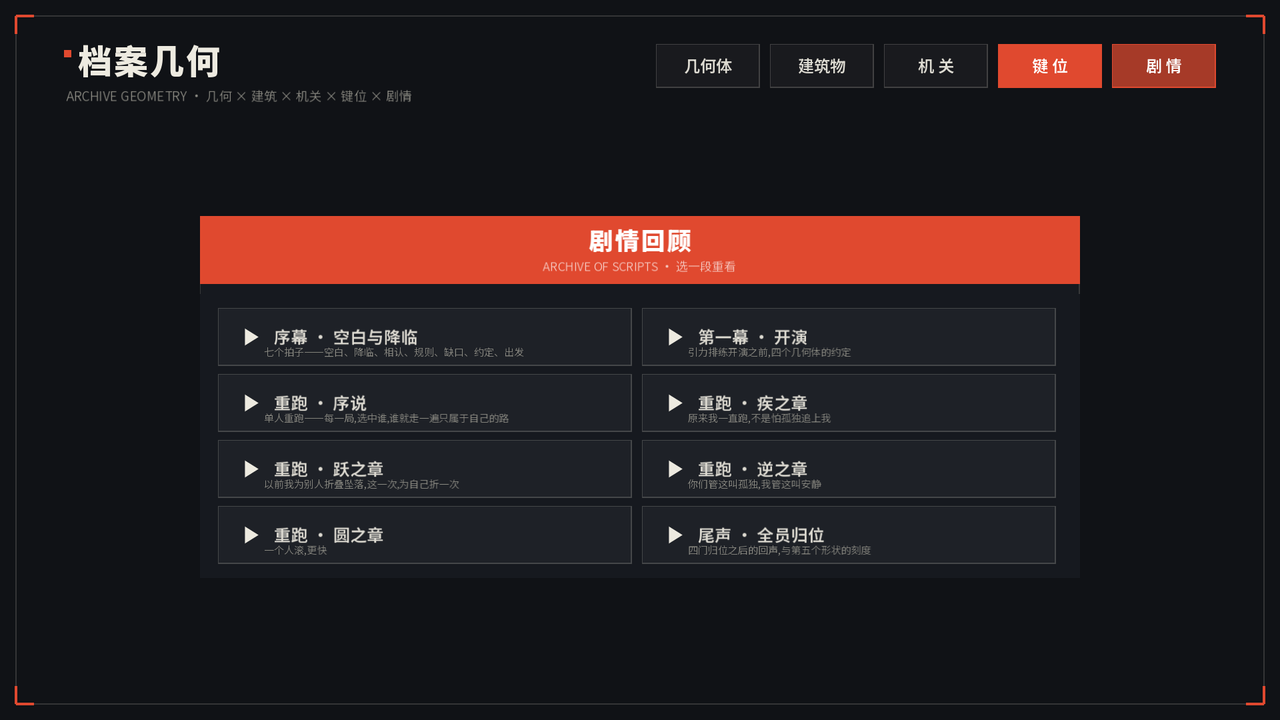
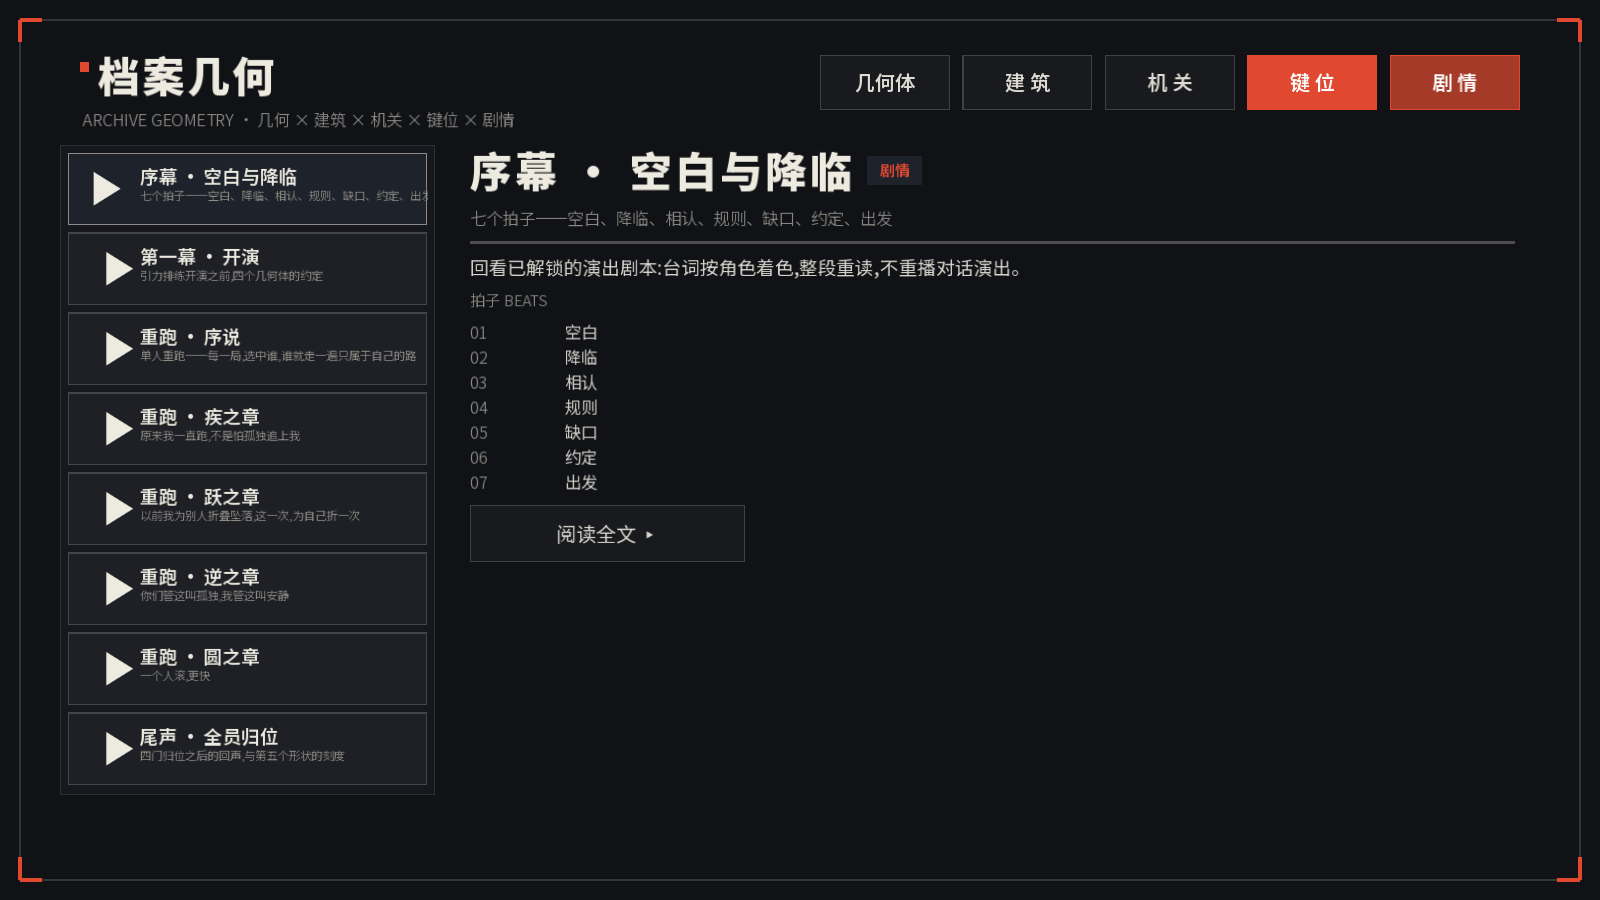
散项清账:摩擦行钩子 + ROADMAP §5 核对 + UI 图册刷新(v0.42.1)— 【摩擦行钩子】stat_rows 摩擦系数行走词条钩子(与攀墙行同款依赖注入):摩擦为 DEFAULTS 微调键,档案行此前直读基础值,局内有摩擦微调词条时现实时反映【ROADMAP §5 三项核对结论(台账勾销,零代码)】Android 预设 etc2_astc=true 已显式(P1 完成)/hdr_2d 无键=默认关/音频总线 SFX-Music 已拆分(default_bus_layout.tres+sfx/ambience 各走各总线+设置滑杆独立)——§5 音频总线项实际已完成【UI 图册

diff --git a/CHANGELOG.md b/CHANGELOG.md
@@ -19,6 +19,19 @@
 ### 门禁
 - 改动脚本 check-only 全绿(main / game_flow)/ gridcheck PASS 无新违例 / reach_check 36 关 ALL PASS / recalltest / dualtest / nettest / autotest 全 PASS(明细见提交说明)。
 
+## v0.42.1(2026-09-14)
+
+> **散项清账:摩擦行钩子 + ROADMAP §5 核对 + UI 图册刷新**。
+
+### 变更
+- **stat_rows 摩擦系数行走词条钩子**(与攀墙行同款依赖注入):摩擦为 DEFAULTS 微调键,档案行此前直读基础值——局内有摩擦微调词条时实时反映。
+- **ROADMAP §5 三项核对结论**(台账勾销,零代码):Android 预设 `texture_format/etc2_astc=true` 已显式(P1 核对项完成);`hdr_2d` 无键=默认关 ✓;音频总线 **SFX/Music 已拆分**(default_bus_layout.tres + sfx/ambience 各走各总线 + 设置滑杆独立)——§5 音频总线项实际已完成。
+- **UI 图册刷新**(改完必须重截纪律):docs/ui/ 五屏换 v0.42 现役画面(菜单/设置/档案 geo·gallery·story,1280×720 基准),README 头注记。
+
+### 修复
+- data/characters/*.tres 五份补 Script ext_resource uid(v0.41.3 遗留;根治 check-only 单查 geometry_def 的缓存时序误报)。
+- version PATCH 1。
+
 ## v0.42.0(2026-09-14)
 
 > **UI 全量审计统一 + 真机迭代 + 发布批**(第三阶段后首个发布版)。

diff --git a/docs/ui/README.md b/docs/ui/README.md
@@ -1,6 +1,6 @@
 # UI/UX 图册 · UI GALLERY
 
-> v0.29.1 全量界面截图归档:每屏 1280×720 设计稿基准,标注入口、主要
+> v0.29.1 全量界面截图归档 · **v0.42.1 部分重截**(菜单/设置/档案 geo·gallery·story 五屏,1280×720 基准;对应 ui 域拆分与设置全屏化后的现役画面):每屏 1280×720 设计稿基准,标注入口、主要
 > 按钮/交互与状态对应。规范权威 = `docs/design/ui-flow.md`(六大 UX 空间、
 > 页面规范模板、九态 UNKNOWN 链)与 `docs/ui/00-ui-master-plan.md`;
 > 本图册是**视觉验收基准**,改任何 UI 前先对照,改完必须重截对应屏。

diff --git a/README.md b/README.md
@@ -12,7 +12,7 @@
 + **第一幕「各自的路上」六场**(疾速 / 弹阶 / 对面 / 坡道 / 双生阶 / 合演)
 + **肉鸽模式「重跑 RE-RUN」**(四位主角各一条三章节目链)。
 
-当前版本 **v0.42.0**(唯一来源 `scripts/core/version.gd`,变更明细见 [CHANGELOG.md](CHANGELOG.md))。
+当前版本 **v0.42.1**(唯一来源 `scripts/core/version.gd`,变更明细见 [CHANGELOG.md](CHANGELOG.md))。
 
 ## 预览
 
